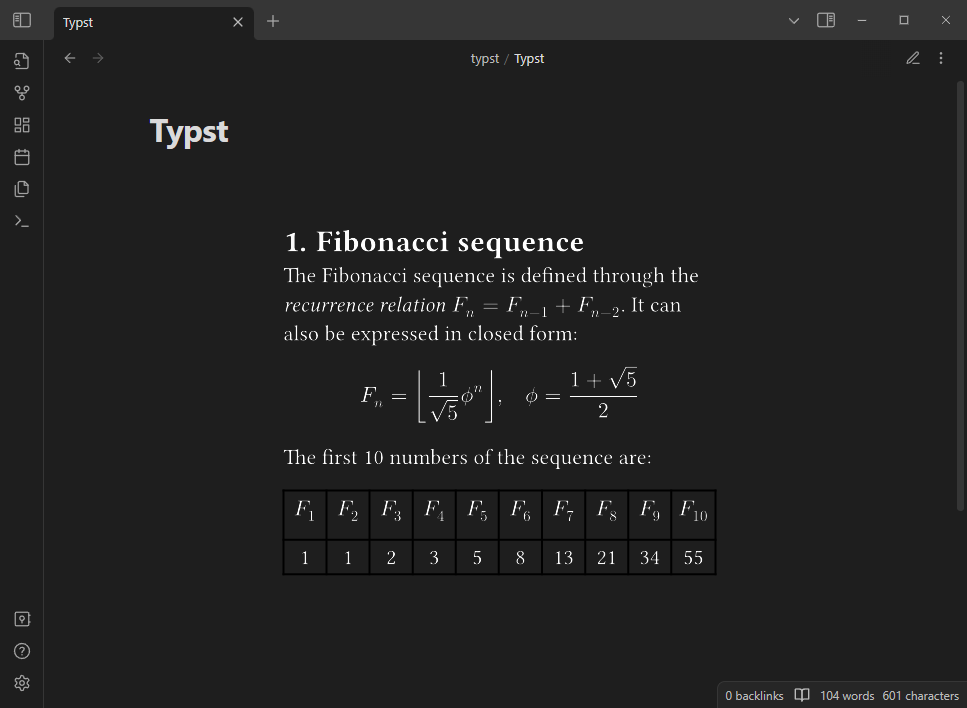
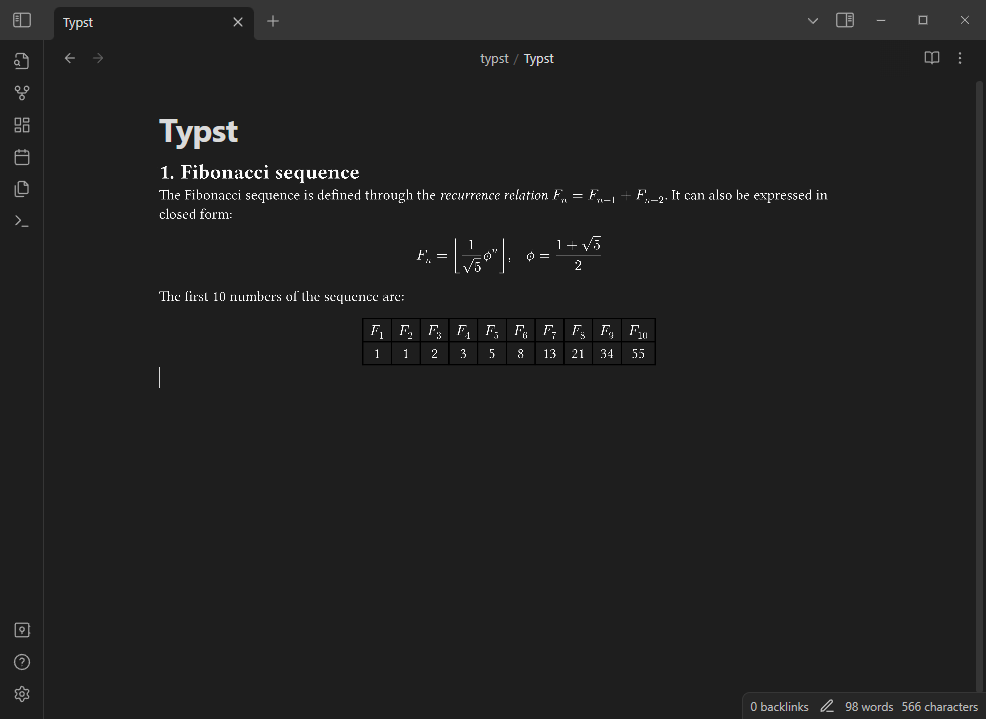
Update README

diff --git a/README.md b/README.md
@@ -2,14 +2,26 @@
 
 Renders `typst` code blocks into images using [Typst](https://github.com/typst/typst) through the power of WASM! This is still very much in development, so suggestions/bugs are welcome!
 
-**NOTE**: The plugin has to load fonts at startup, which on my machine takes about 20s but after that its *heckin* fast.
+## Things to NOTE
+- Typst does not currently support exporting to HTML only PDFs and PNGs. So due to image scaling, the rendered views may look a bit terrible. If you know how to fix this PLEASE HELP.
+- File paths should be relative to the vault folder.
+- System fonts are not loaded by default as this takes about 20 seconds (on my machine). Their is an option in settings to enable them (requires a reload of the plugin).
 ## Example
 
+### `conf.typ`
+```typst
+#let styling(ct) = {
+    set page(width: 525pt, height: auto, margin: (x: 0pt, y: 1pt))
+    set heading(numbering: "1.")
+    set text(white)
+    ct
+}
+```
+### `Typst.md`
 ```
 ```typst
-#set page(width: 10cm, height: auto)
-#set heading(numbering: "1.")
-#set text(white)
+#import "conf.typ": styling
+#show: styling
 
 = Fibonacci sequence
 The Fibonacci sequence is defined through the
@@ -33,6 +45,7 @@ The first #count numbers of the sequence are:
   ..nums.map(n => $F_#n$),
   ..nums.map(n => str(fib(n))),
 ))
+
 ```
 ```
 
@@ -42,8 +55,10 @@ The first #count numbers of the sequence are:
 Until this plugin is submitted to the community plugins please install it by copying `main.js`, `styles.css`, and `manifest.json` from the releases tab to the folder `.obsidian/plugins/obsidian-typst`.
 
 ## TODO / Goals (In no particular order)
-- [ ] Better font loading
+- [x] Better font loading
+- [x] Fix importing
 - [ ] Fix Github Actions
+- [ ] Better error handling
 - [ ] Fix output image scaling
 - [ ] Use HTML output
 - [ ] Override default equation rendering
